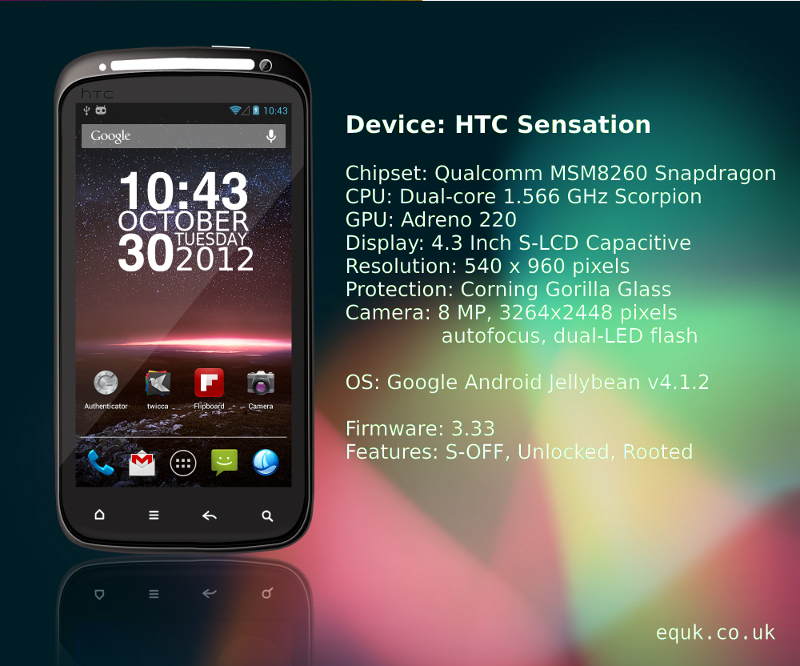
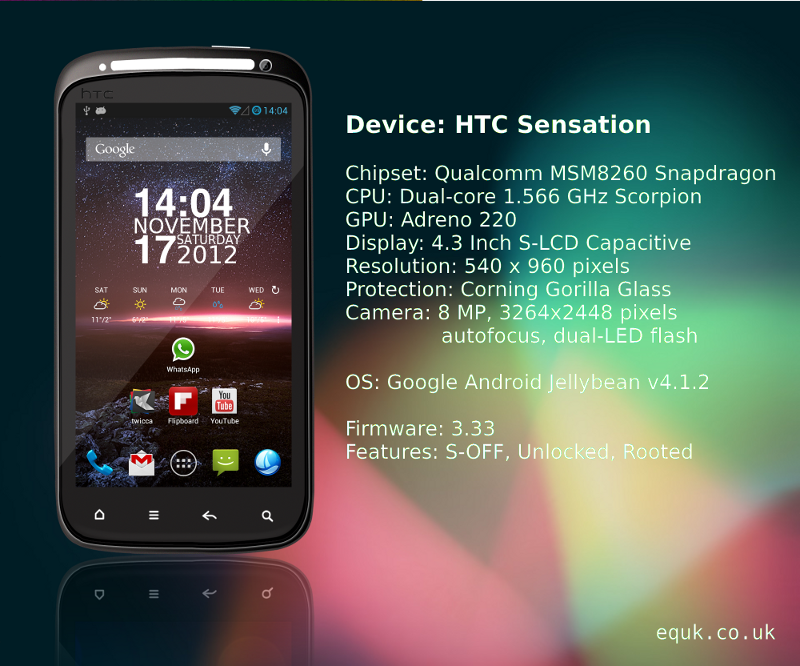
new kernel & new screenshot

Changed region(s): [[0.0938, 0.1502, 0.375, 0.7508]]

diff --git a/README.rst b/README.rst
@@ -27,14 +27,15 @@ Current ROM
 -----------
 
 * OS: Jellybean v4.1.2
-* Kernel: Linux 3.0.50
+* Kernel: Linux 3.0.51
 * Patched 4.2 Camera
 * 4.2 Swype Style Keyboard
 * Recovery: CWM 5.0.2.0
 * PDroid 1.32
 * Paranoid Android
+* Custom Kernel Init Scripts
 
-*Kernel Source:* https://github.com/bruce2728/android_device_htc_pyramid
+*Kernel Source:* https://github.com/bruce2728/android_kernel_htc_pyramid
 
 *Paranoid Android:* http://paranoid-rom.com/
 
